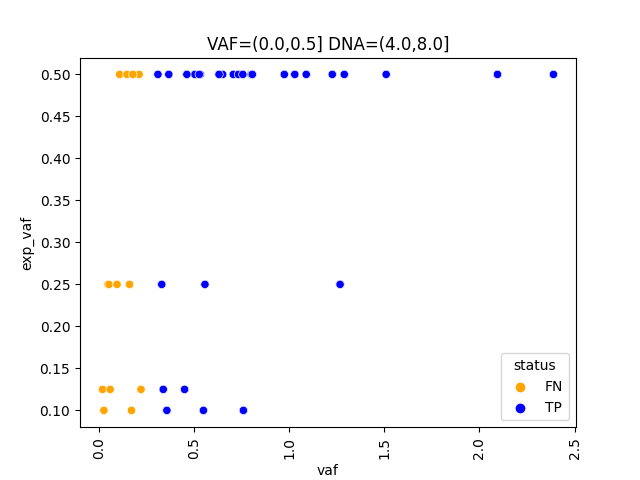
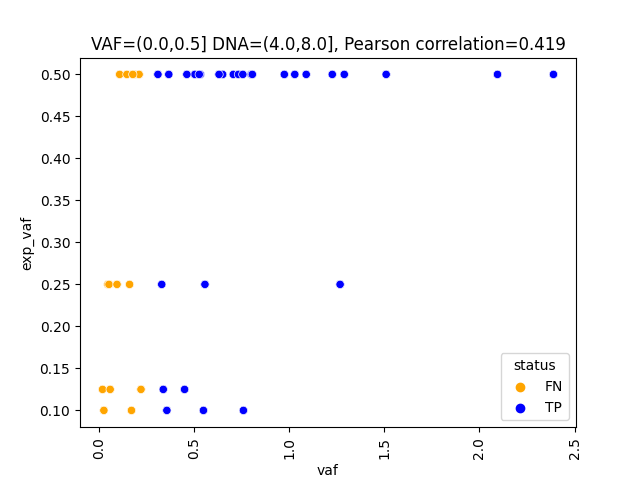
fix hue of scatterplots

Changed region(s): [[0.1562, 0.0625, 0.875, 0.125]]

diff --git a/results/get_vaf_plots.py b/results/get_vaf_plots.py
@@ -35,12 +35,13 @@ for setting in GRID:
     in_df = pd.read_csv(in_file, dtype=str, sep='\t')
     in_df['vaf'] = in_df['vaf'].astype(np.float64)
     in_df['exp_vaf'] = in_df['exp_vaf'].astype(np.float64)
+    correlation = in_df['vaf'].corr(in_df['exp_vaf'], method='pearson')
     plt.figure()
     vaf_plot = sns.scatterplot(
         data=in_df, x='vaf', y='exp_vaf', hue='status',
         palette={'TP': 'blue', 'FN': 'orange'}
     )
-    plt.title(title)
+    plt.title(f"{title}, Pearson correlation={round(correlation, 3)}")
     plt.xticks(rotation=90)
     # fig = vaf_plot.get_figure()
     plt.savefig(out_file)
